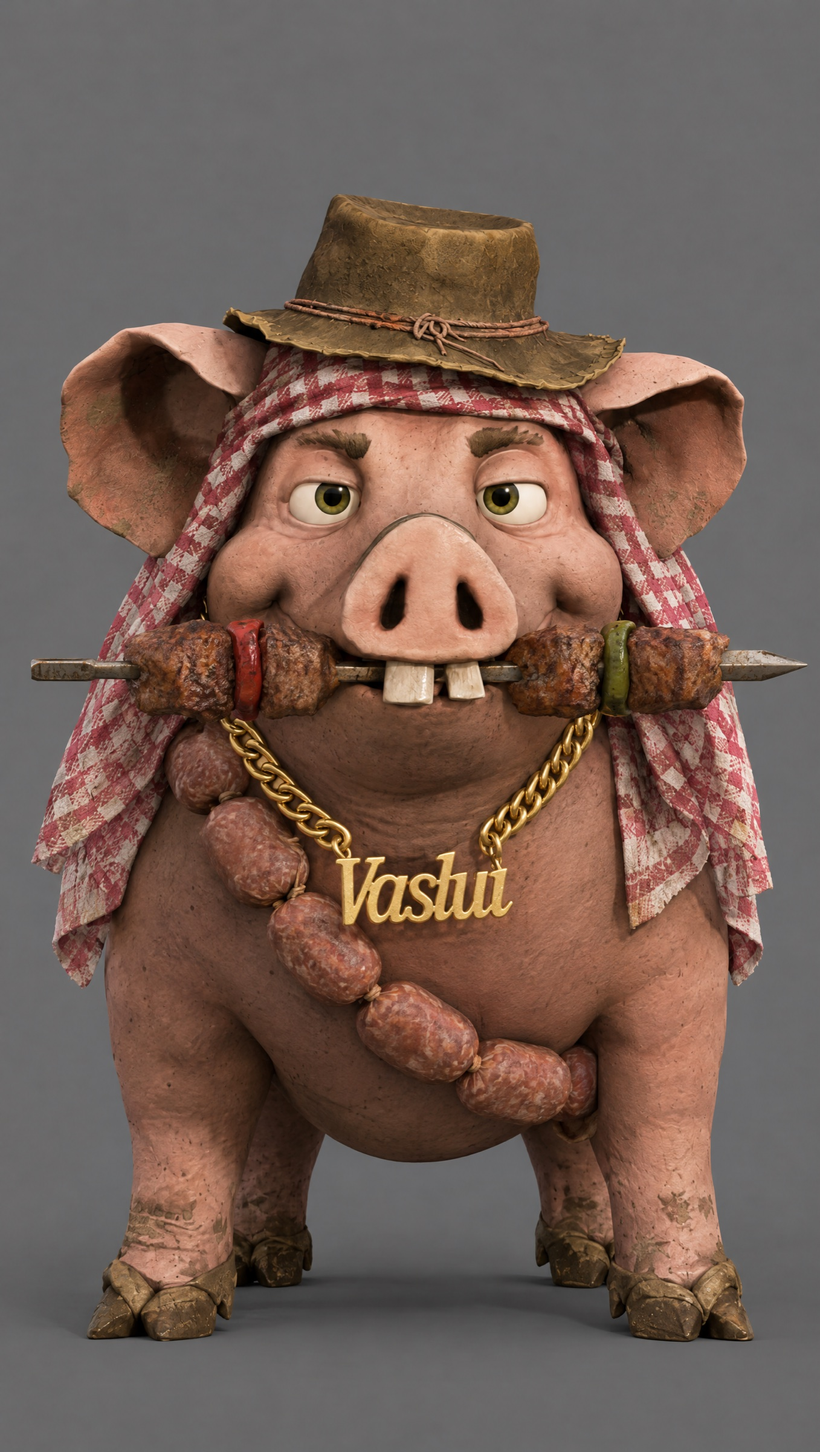
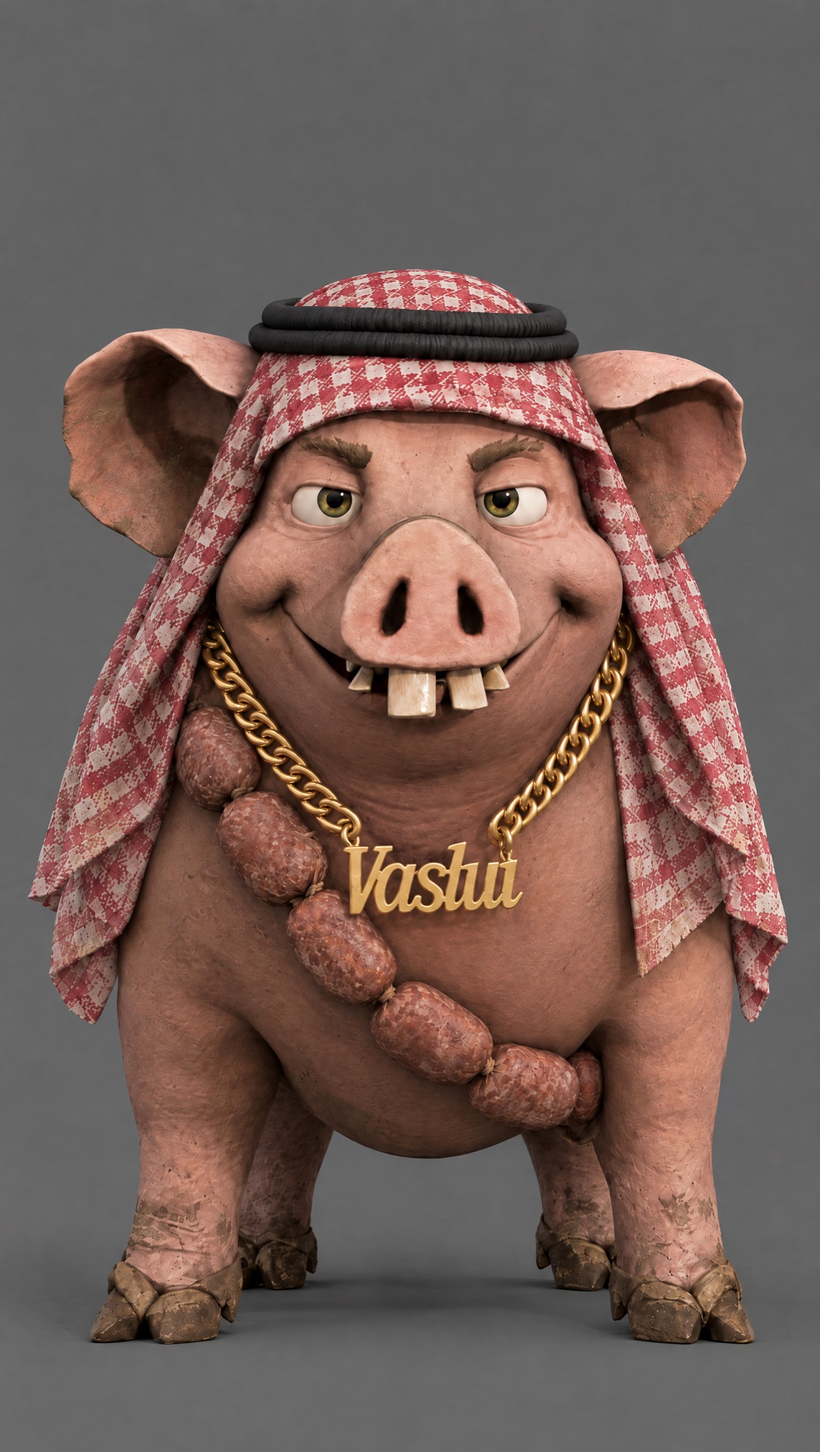
Storyboard update 4a5a51a4b5bd

diff --git a/index.html b/index.html
@@ -1095,7 +1095,7 @@ He&#x27;s my legal counsel.
 Very smart pig.
 You gotta love Valeriu.
 You gotta love the Vasluians.</pre></div></section></div>
-<div id="panel-ep7" role="tabpanel" aria-labelledby="tab-ep7" hidden><section><div class="shead"><h2>Episode 7 — The Hijack</h2><span class="count">Working title · first draft · 18 Oct 2026</span></div><div class="rule"></div><p class="sintro">What if the Vasluians did 9/11? Five hijackers walk up to a plane and each one is introduced Kill Bill style. They take over the plane and fly it drunk. The first passenger to open a bottle turns the hijacking into a party, and the plane blows up. Radu, who missed the flight, ends up alone in the desert with a goat. Brief from Nir, 7–18 October 2026. Vertical, about 1:40, cut to Beastie Boys’ “Sabotage”.</p><nav class="epnav"><a href="#ep7cast">The hijackers</a><a href="#ep7music">Music &amp; cut</a><a href="#ep7beats">Shot list</a><a href="#ep7open">Open questions</a></nav></section><section id="ep7cast"><div class="shead"><h2>The hijackers</h2><span class="count">6 approved · 18 Oct 2026</span></div><div class="rule"></div><p class="sintro">The existing cast in hijacker costume. At each introduction the character freezes for a second while the name comes up in Kill Bill lettering, then carries on. Each one uses their weapon for a second on the way to the plane. “The character introductions are the funny part of the clip.” (Nir)</p><div class="grid"><article class="card"><a class="frame full" href="img/full/episodes/ep-07-the-hijack/characters/abu-mona/abu-mona-approved.jpg" target="_blank" rel="noopener"><img loading="lazy" src="img/thumb/episodes/ep-07-the-hijack/characters/abu-mona/abu-mona-approved.jpg" alt="Abu Mona — approved" data-full="img/full/episodes/ep-07-the-hijack/characters/abu-mona/abu-mona-approved.jpg" decoding="async"></a><div class="plate"><div class="namerow"><h3>Vasile as Abu Mona</h3><span class="flag">APPROVED</span></div><p class="tell">A keffiyeh and Mona grenades. He is introduced first: on his name freeze he opens his coat or lifts his shirt to show the Mona grenades strapped to his body, maybe a funny Mona suicide belt. <b>Built:</b> Keffiyeh in place of his beanie, his jacket held open on a duct-taped Mona suicide belt, and a detonator with a big red button in his raised hand.</p></div></article><article class="card"><a class="frame full" href="img/full/episodes/ep-07-the-hijack/characters/umm-roaba/umm-roaba-approved.jpg" target="_blank" rel="noopener"><img loading="lazy" src="img/thumb/episodes/ep-07-the-hijack/characters/umm-roaba/umm-roaba-approved.jpg" alt="Umm Roaba — approved" data-full="img/full/episodes/ep-07-the-hijack/characters/umm-roaba/umm-roaba-approved.jpg" decoding="async"></a><div class="plate"><div class="namerow"><h3>Vasilica as Umm Roaba</h3><span class="flag">APPROVED</span></div><p class="tell">Roabă means wheelbarrow. The old hijacker has a wheelbarrow and a bazooka that fires slippers. <b>Built:</b> Her foot up on a rusty wheelbarrow heaped with slippers, a bazooka on her shoulder firing a flip-flop, and a satchel of spare slippers.</p></div></article><article class="card"><a class="frame full" href="img/full/episodes/ep-07-the-hijack/characters/abu-topor/abu-topor-approved.jpg" target="_blank" rel="noopener"><img loading="lazy" src="img/thumb/episodes/ep-07-the-hijack/characters/abu-topor/abu-topor-approved.jpg" alt="Abu Topor — approved" data-full="img/full/episodes/ep-07-the-hijack/characters/abu-topor/abu-topor-approved.jpg" decoding="async"></a><div class="plate"><div class="namerow"><h3>Viorel as Abu Topor</h3><span class="flag">APPROVED</span></div><p class="tell">Topor means axe. His red axe, with a string of onions round his neck. <b>Built:</b> The red axe slung over his shoulder, strings of onions round his neck and across his chest, a keffiyeh on his shoulders. Completely relaxed.</p></div></article><article class="card"><a class="frame full" href="img/full/episodes/ep-07-the-hijack/characters/abu-halal/abu-halal-approved.jpg" target="_blank" rel="noopener"><img loading="lazy" src="img/thumb/episodes/ep-07-the-hijack/characters/abu-halal/abu-halal-approved.jpg" alt="Abu Halal — approved" data-full="img/full/episodes/ep-07-the-hijack/characters/abu-halal/abu-halal-approved.jpg" decoding="async"></a><div class="plate"><div class="namerow"><h3>Valeriu as Abu Halal</h3><span class="flag">APPROVED</span></div><p class="tell">Valeriu the pig as a hijacker, gold chain on. Nir didn&#x27;t name a weapon. <b>Built:</b> Keffiyeh under his bush hat, a bandolier of pork sausages, and a kebab skewer held in his teeth like a sword. The gold chain stays on.</p></div></article><article class="card"><a class="frame full" href="img/full/episodes/ep-07-the-hijack/characters/ahmed-goat/ahmed-goat-approved.jpg" target="_blank" rel="noopener"><img loading="lazy" src="img/thumb/episodes/ep-07-the-hijack/characters/ahmed-goat/ahmed-goat-approved.jpg" alt="Ahmed the Goatfucker — approved" data-full="img/full/episodes/ep-07-the-hijack/characters/ahmed-goat/ahmed-goat-approved.jpg" decoding="async"></a><div class="plate"><div class="namerow"><h3>Radu the Rapist as Ahmed the Goatfucker</h3><span class="flag">APPROVED</span></div><p class="tell">Pants down to his ankles, shirt off, stained underwear, a funny walk. He holds a goat on a rope. Too slow for the plane, so it takes off without him. <b>Built:</b> Shirt off, pants round his ankles, stained boxers, a keffiyeh knotted at his neck, and a terrified goat on a rope.</p></div></article><article class="card"><a class="frame full" href="img/full/episodes/ep-07-the-hijack/characters/osama-bin-briben/osama-bin-briben-approved.jpg" target="_blank" rel="noopener"><img loading="lazy" src="img/thumb/episodes/ep-07-the-hijack/characters/osama-bin-briben/osama-bin-briben-approved.jpg" alt="Osama Bin Briben — approved" data-full="img/full/episodes/ep-07-the-hijack/characters/osama-bin-briben/osama-bin-briben-approved.jpg" decoding="async"></a><div class="plate"><div class="namerow"><h3>Mayor Bribeanu as Osama Bin Briben</h3><span class="flag">APPROVED</span></div><p class="tell">Introduced mid-video. He runs the hijackers from his office, shouting into the phone, with bundles of banknotes on the desk. <b>Built:</b> A long beard, a turban wound round his top hat, the MAYOR BRIBEANU sash, shouting into an old phone with a wad of banknotes in his hand.</p></div></article></div></section><section id="ep7music"><div class="shead"><h2>Music &amp; cut</h2><span class="count">timed to the song</span></div><div class="rule"></div><div class="beats"><article class="beat"><span class="count">Song</span><h3>Beastie Boys — “Sabotage”</h3><p>Plays over the whole video, as parody. <a href="https://m.youtube.com/watch?v=z5rRZdiu1UE" target="_blank" rel="noopener">Track</a>. All the times below are positions in the song.</p></article><article class="beat"><span class="count">Nir’s cut · 16 Oct</span><h3>0:00–1:04, then 2:16–2:52</h3><p>The song runs 0:00–1:04, cuts, and picks up again at 2:16–2:52. Then the Radu-and-goat ending. That comes to about 1:30–1:40 in all.</p></article></div></section><section id="ep7beats"><h2>The shot list</h2><p class="sintro">First draft. Times on the cards are the cut’s running time. In part two, song 2:16 falls at 1:04. Cards marked <b>PROPOSAL</b> are our ideas for the part Nir left open.</p><div class="parthead"><h3>Part one — song 0:00–1:04</h3></div><div class="beats"><article class="beat"><span class="count">Shot 1 · 0:00–0:03</span><h3>The runway</h3><p>Wide on a lonely plane on a cracked runway. Five hijackers walk towards the stairs in a line, slow and tough, Reservoir Dogs style. Sabotage kicks in.</p></article><article class="beat"><span class="count">Shot 2 · 0:03–0:06</span><h3>Abu Mona</h3><p>Fast cut to Vasile in a keffiyeh. He flings his coat open: a belt of Mona bottles strapped round him, grenades in his hands. <b>Freeze</b>, name in Kill Bill lettering: <b>VASILE as ABU MONA</b>. He carries on walking.</p></article><article class="beat"><span class="count">Shot 3 · 0:06–0:09</span><h3>Umm Roaba</h3><p>Vasilica pushes her wheelbarrow, swings up a bazooka and fires a slipper. It hits a ground-crew man in the head. <b>Freeze</b>: <b>VASILICA as UMM ROABA</b>.</p></article><article class="beat"><span class="count">Shot 4 · 0:09–0:12</span><h3>Abu Topor</h3><p>Viorel, onions strung round his neck, splits a suitcase on the luggage cart with one blow of his axe. <b>Freeze</b>: <b>VIOREL as ABU TOPOR</b>.</p></article><article class="beat"><span class="count">Shot 5 · 0:12–0:14 · Weapon still open</span><h3>Abu Halal</h3><p>Valeriu the pig, gold chain shining, does his one tough move. <b>Freeze</b>: <b>VALERIU as ABU HALAL</b>.</p></article><article class="beat"><span class="count">Shot 6 · 0:14–0:17</span><h3>Ahmed the Goatfucker</h3><p>Radu, far behind: pants round his ankles, shirt off, stained underwear, a goat on a rope. He shuffles. <b>Freeze</b>: <b>RADU THE RAPIST as AHMED THE GOATFUCKER</b>.</p></article><article class="beat"><span class="count">Shot 7 · 0:17–0:21</span><h3>He misses the plane</h3><p>The door shuts in Radu's face. The plane takes off over him; the jet blast flattens him and the goat.</p></article><article class="beat"><span class="count">Shot 8 · 0:21–0:27</span><h3>The takeover</h3><p>The cabin is stormed with Vaslui weapons: a slipper fired at a steward, the axe through the cockpit door, a Mona grenade held up like a pin is about to be pulled. Passengers scream.</p></article><article class="beat"><span class="count">Shot 9 · 0:27–0:31</span><h3>Osama Bin Briben</h3><p>Cut to the mayor's office: Bribeanu with a long beard, behind a desk piled with banknotes, shouting into the phone at the hijackers. <b>Freeze</b>: <b>MAYOR BRIBEANU as OSAMA BIN BRIBEN</b>.</p></article><article class="beat"><span class="count">Shot 10 · 0:31–0:37 · Which two? Open</span><h3>The cockpit</h3><p>Two hijackers fly the plane. The dashboard is covered in empty bottles and Vaslui junk; they drink at the controls.</p></article><article class="beat"><span class="count">Shot 11 · 0:37–0:42</span><h3>The hostages</h3><p>The other hijackers guard the terrified passengers with the axe and the slipper bazooka.</p></article><article class="beat"><span class="count">Shot 12 · 0:42–0:51</span><h3>The roll</h3><p>Drunk on the controls, the plane barrel-rolls through the sky. Inside, everything turns over: trays, bags and passengers.</p></article><article class="beat"><span class="count">Shot 13 · 0:51–0:55</span><h3>The bottle</h3><p>A passenger opens a bottle of Mona. Pop. Every hijacker's head turns.</p></article><article class="beat"><span class="count">Shot 14 · 0:55–0:59</span><h3>Zombies</h3><p>The hijackers drop their weapons and shuffle towards him like zombies, arms out.</p></article><article class="beat"><span class="count">Shot 15 · 0:59–1:04</span><h3>The party starts</h3><p>Hijackers and passengers drink together. The mission is forgotten.</p></article></div><div class="parthead"><h3>Part two — song 2:16–2:52 (Nir: &quot;think what to put here&quot;)</h3></div><div class="beats"><article class="beat"><span class="count">Shot 16 · 1:04–1:12</span><h3>Barbecue at 30,000 feet</h3><p>Song resumes at 2:16. A barbecue on the drinks trolley: meat on the grill and smoke filling the cabin, as in the end of the alien episode. The smoke alarm goes off and somebody smashes it.</p></article><article class="beat"><span class="count">Shot 17 · 1:12–1:18</span><h3>The lap dance</h3><p>Vasilica gives a petrified passenger a lap dance.</p></article><article class="beat"><span class="count">Shot 18 · 1:18–1:26 · PROPOSAL</span><h3>Nobody is flying</h3><p>Dancing in the aisle, everyone drunk. Cut to the cockpit: empty, apart from Valeriu, who is "flying" the plane with a bottle in his trotter.</p></article><article class="beat"><span class="count">Shot 19 · 1:26–1:32 · PROPOSAL</span><h3>The mayor calls</h3><p>Bribeanu shouts into the phone. On the plane it rings in a pile of bottles; someone answers, burps into it and hangs up.</p></article><article class="beat"><span class="count">Shot 20 · 1:32–1:40 · PROPOSAL</span><h3>Boom</h3><p>Vasile, looking for something to drink, pulls the cap off one of the Mona grenades on his belt. Silence. A wide shot of the plane in the sky, then a huge explosion as the song ends.</p></article></div><div class="parthead"><h3>The ending — after the song</h3></div><div class="beats"><article class="beat"><span class="count">Shot 21 · after the song</span><h3>Just you and me</h3><p>A desert, with smoke on the horizon. Radu walks beside the goat and drools: <i>"Looks like it's just you and me now."</i> The goat looks scared and runs. Radu: <i>"Playing hard to get… I like that."</i> He chases it with his pants-down walk.</p></article></div></section><section id="ep7open"><div class="shead"><h2>Open questions</h2></div><div class="rule"></div><div class="beats"><article class="beat"><h3>Part two</h3><p>Song 2:16–2:52 is still open. Shots 18–20 are our proposal: nobody flying the plane, the mayor calling, and the Mona grenade that blows the plane up.</p></article><article class="beat"><h3>The pilots</h3><p>Which two hijackers fly the plane?</p></article><article class="beat"><h3>Abu Halal</h3><p>Valeriu got a sausage bandolier and a kebab skewer. Nir to confirm.</p></article><article class="beat"><h3>More introductions</h3><p>Nir: “we’ll think of a few more” characters to introduce between the scenes.</p></article></div></section></div>
+<div id="panel-ep7" role="tabpanel" aria-labelledby="tab-ep7" hidden><section><div class="shead"><h2>Episode 7 — The Hijack</h2><span class="count">Working title · first draft · 18 Oct 2026</span></div><div class="rule"></div><p class="sintro">What if the Vasluians did 9/11? Five hijackers walk up to a plane and each one is introduced Kill Bill style. They take over the plane and fly it drunk. The first passenger to open a bottle turns the hijacking into a party, and the plane blows up. Radu, who missed the flight, ends up alone in the desert with a goat. Brief from Nir, 7–18 October 2026. Vertical, about 1:40, cut to Beastie Boys’ “Sabotage”.</p><nav class="epnav"><a href="#ep7cast">The hijackers</a><a href="#ep7music">Music &amp; cut</a><a href="#ep7beats">Shot list</a><a href="#ep7open">Open questions</a></nav></section><section id="ep7cast"><div class="shead"><h2>The hijackers</h2><span class="count">6 approved · 18 Oct 2026</span></div><div class="rule"></div><p class="sintro">The existing cast in hijacker costume. At each introduction the character freezes for a second while the name comes up in Kill Bill lettering, then carries on. Each one uses their weapon for a second on the way to the plane. “The character introductions are the funny part of the clip.” (Nir)</p><div class="grid"><article class="card"><a class="frame full" href="img/full/episodes/ep-07-the-hijack/characters/abu-mona/abu-mona-approved.jpg" target="_blank" rel="noopener"><img loading="lazy" src="img/thumb/episodes/ep-07-the-hijack/characters/abu-mona/abu-mona-approved.jpg" alt="Abu Mona — approved" data-full="img/full/episodes/ep-07-the-hijack/characters/abu-mona/abu-mona-approved.jpg" decoding="async"></a><div class="plate"><div class="namerow"><h3>Vasile as Abu Mona</h3><span class="flag">APPROVED</span></div><p class="tell">A keffiyeh and Mona grenades. He is introduced first: on his name freeze he opens his coat or lifts his shirt to show the Mona grenades strapped to his body, maybe a funny Mona suicide belt. <b>Built:</b> Keffiyeh in place of his beanie, his jacket held open on a duct-taped Mona suicide belt, and a detonator with a big red button in his raised hand.</p></div></article><article class="card"><a class="frame full" href="img/full/episodes/ep-07-the-hijack/characters/umm-roaba/umm-roaba-approved.jpg" target="_blank" rel="noopener"><img loading="lazy" src="img/thumb/episodes/ep-07-the-hijack/characters/umm-roaba/umm-roaba-approved.jpg" alt="Umm Roaba — approved" data-full="img/full/episodes/ep-07-the-hijack/characters/umm-roaba/umm-roaba-approved.jpg" decoding="async"></a><div class="plate"><div class="namerow"><h3>Vasilica as Umm Roaba</h3><span class="flag">APPROVED</span></div><p class="tell">Roabă means wheelbarrow. The old hijacker has a wheelbarrow and a bazooka that fires slippers. <b>War mode:</b> her foot up on a rusty wheelbarrow heaped with slippers, a bazooka on her shoulder firing a flip-flop, and a satchel of spare slippers.</p></div></article><article class="card"><a class="frame full" href="img/full/episodes/ep-07-the-hijack/characters/umm-roaba/umm-roaba-normal-approved.jpg" target="_blank" rel="noopener"><img loading="lazy" src="img/thumb/episodes/ep-07-the-hijack/characters/umm-roaba/umm-roaba-normal-approved.jpg" alt="Umm Roaba, normal mode — approved" data-full="img/full/episodes/ep-07-the-hijack/characters/umm-roaba/umm-roaba-normal-approved.jpg" decoding="async"></a><div class="plate"><div class="namerow"><h3>Vasilica as Umm Roaba · normal mode</h3><span class="flag">APPROVED</span></div><p class="tell">The same element at rest: no wheelbarrow, the slipper bazooka slung on her back, hands folded, a satchel of slippers on her hip. A sweet old lady on her way to the plane.</p></div></article><article class="card"><a class="frame full" href="img/full/episodes/ep-07-the-hijack/characters/abu-topor/abu-topor-approved.jpg" target="_blank" rel="noopener"><img loading="lazy" src="img/thumb/episodes/ep-07-the-hijack/characters/abu-topor/abu-topor-approved.jpg" alt="Abu Topor — approved" data-full="img/full/episodes/ep-07-the-hijack/characters/abu-topor/abu-topor-approved.jpg" decoding="async"></a><div class="plate"><div class="namerow"><h3>Viorel as Abu Topor</h3><span class="flag">APPROVED</span></div><p class="tell">Topor means axe. His red axe, with a string of onions round his neck. <b>Built:</b> The red axe slung over his shoulder, strings of onions round his neck and across his chest, a keffiyeh on his shoulders. Completely relaxed.</p></div></article><article class="card"><a class="frame full" href="img/full/episodes/ep-07-the-hijack/characters/abu-halal/abu-halal-approved.jpg" target="_blank" rel="noopener"><img loading="lazy" src="img/thumb/episodes/ep-07-the-hijack/characters/abu-halal/abu-halal-approved.jpg" alt="Abu Halal — approved" data-full="img/full/episodes/ep-07-the-hijack/characters/abu-halal/abu-halal-approved.jpg" decoding="async"></a><div class="plate"><div class="namerow"><h3>Valeriu as Abu Halal</h3><span class="flag">APPROVED</span></div><p class="tell">Valeriu the pig as a hijacker, gold chain on. Nir didn&#x27;t name a weapon. <b>Built:</b> A keffiyeh and agal on his head in place of the bush hat, and a bandolier of pork sausages. Gold chain and buck teeth as always.</p></div></article><article class="card"><a class="frame full" href="img/full/episodes/ep-07-the-hijack/characters/ahmed-goat/ahmed-goat-approved.jpg" target="_blank" rel="noopener"><img loading="lazy" src="img/thumb/episodes/ep-07-the-hijack/characters/ahmed-goat/ahmed-goat-approved.jpg" alt="Ahmed the Goatfucker — approved" data-full="img/full/episodes/ep-07-the-hijack/characters/ahmed-goat/ahmed-goat-approved.jpg" decoding="async"></a><div class="plate"><div class="namerow"><h3>Radu the Rapist as Ahmed the Goatfucker</h3><span class="flag">APPROVED</span></div><p class="tell">Pants down to his ankles, shirt off, stained underwear, a funny walk. He holds a goat on a rope. Too slow for the plane, so it takes off without him. <b>Built:</b> Shirt off, pants round his ankles, stained boxers, a keffiyeh knotted at his neck, and a terrified goat on a rope.</p></div></article><article class="card"><a class="frame full" href="img/full/episodes/ep-07-the-hijack/characters/osama-bin-briben/osama-bin-briben-approved.jpg" target="_blank" rel="noopener"><img loading="lazy" src="img/thumb/episodes/ep-07-the-hijack/characters/osama-bin-briben/osama-bin-briben-approved.jpg" alt="Osama Bin Briben — approved" data-full="img/full/episodes/ep-07-the-hijack/characters/osama-bin-briben/osama-bin-briben-approved.jpg" decoding="async"></a><div class="plate"><div class="namerow"><h3>Mayor Bribeanu as Osama Bin Briben</h3><span class="flag">APPROVED</span></div><p class="tell">Introduced mid-video. He runs the hijackers from his office, shouting into the phone, with bundles of banknotes on the desk. <b>Built:</b> A long beard, a turban wound round his top hat, the MAYOR BRIBEANU sash, shouting into an old phone with a wad of banknotes in his hand.</p></div></article></div></section><section id="ep7music"><div class="shead"><h2>Music &amp; cut</h2><span class="count">timed to the song</span></div><div class="rule"></div><div class="beats"><article class="beat"><span class="count">Song</span><h3>Beastie Boys — “Sabotage”</h3><p>Plays over the whole video, as parody. <a href="https://m.youtube.com/watch?v=z5rRZdiu1UE" target="_blank" rel="noopener">Track</a>. All the times below are positions in the song.</p></article><article class="beat"><span class="count">Nir’s cut · 16 Oct</span><h3>0:00–1:04, then 2:16–2:52</h3><p>The song runs 0:00–1:04, cuts, and picks up again at 2:16–2:52. Then the Radu-and-goat ending. That comes to about 1:30–1:40 in all.</p></article></div></section><section id="ep7beats"><h2>The shot list</h2><p class="sintro">First draft. Times on the cards are the cut’s running time. In part two, song 2:16 falls at 1:04. Cards marked <b>PROPOSAL</b> are our ideas for the part Nir left open.</p><div class="parthead"><h3>Part one — song 0:00–1:04</h3></div><div class="beats"><article class="beat"><span class="count">Shot 1 · 0:00–0:03</span><h3>The runway</h3><p>Wide on a lonely plane on a cracked runway. Five hijackers walk towards the stairs in a line, slow and tough, Reservoir Dogs style. Sabotage kicks in.</p></article><article class="beat"><span class="count">Shot 2 · 0:03–0:06</span><h3>Abu Mona</h3><p>Fast cut to Vasile in a keffiyeh. He flings his coat open: a belt of Mona bottles strapped round him, grenades in his hands. <b>Freeze</b>, name in Kill Bill lettering: <b>VASILE as ABU MONA</b>. He carries on walking.</p></article><article class="beat"><span class="count">Shot 3 · 0:06–0:09</span><h3>Umm Roaba</h3><p>Vasilica pushes her wheelbarrow, swings up a bazooka and fires a slipper. It hits a ground-crew man in the head. <b>Freeze</b>: <b>VASILICA as UMM ROABA</b>.</p></article><article class="beat"><span class="count">Shot 4 · 0:09–0:12</span><h3>Abu Topor</h3><p>Viorel, onions strung round his neck, splits a suitcase on the luggage cart with one blow of his axe. <b>Freeze</b>: <b>VIOREL as ABU TOPOR</b>.</p></article><article class="beat"><span class="count">Shot 5 · 0:12–0:14 · Weapon still open</span><h3>Abu Halal</h3><p>Valeriu the pig, gold chain shining, does his one tough move. <b>Freeze</b>: <b>VALERIU as ABU HALAL</b>.</p></article><article class="beat"><span class="count">Shot 6 · 0:14–0:17</span><h3>Ahmed the Goatfucker</h3><p>Radu, far behind: pants round his ankles, shirt off, stained underwear, a goat on a rope. He shuffles. <b>Freeze</b>: <b>RADU THE RAPIST as AHMED THE GOATFUCKER</b>.</p></article><article class="beat"><span class="count">Shot 7 · 0:17–0:21</span><h3>He misses the plane</h3><p>The door shuts in Radu's face. The plane takes off over him; the jet blast flattens him and the goat.</p></article><article class="beat"><span class="count">Shot 8 · 0:21–0:27</span><h3>The takeover</h3><p>The cabin is stormed with Vaslui weapons: a slipper fired at a steward, the axe through the cockpit door, a Mona grenade held up like a pin is about to be pulled. Passengers scream.</p></article><article class="beat"><span class="count">Shot 9 · 0:27–0:31</span><h3>Osama Bin Briben</h3><p>Cut to the mayor's office: Bribeanu with a long beard, behind a desk piled with banknotes, shouting into the phone at the hijackers. <b>Freeze</b>: <b>MAYOR BRIBEANU as OSAMA BIN BRIBEN</b>.</p></article><article class="beat"><span class="count">Shot 10 · 0:31–0:37 · Which two? Open</span><h3>The cockpit</h3><p>Two hijackers fly the plane. The dashboard is covered in empty bottles and Vaslui junk; they drink at the controls.</p></article><article class="beat"><span class="count">Shot 11 · 0:37–0:42</span><h3>The hostages</h3><p>The other hijackers guard the terrified passengers with the axe and the slipper bazooka.</p></article><article class="beat"><span class="count">Shot 12 · 0:42–0:51</span><h3>The roll</h3><p>Drunk on the controls, the plane barrel-rolls through the sky. Inside, everything turns over: trays, bags and passengers.</p></article><article class="beat"><span class="count">Shot 13 · 0:51–0:55</span><h3>The bottle</h3><p>A passenger opens a bottle of Mona. Pop. Every hijacker's head turns.</p></article><article class="beat"><span class="count">Shot 14 · 0:55–0:59</span><h3>Zombies</h3><p>The hijackers drop their weapons and shuffle towards him like zombies, arms out.</p></article><article class="beat"><span class="count">Shot 15 · 0:59–1:04</span><h3>The party starts</h3><p>Hijackers and passengers drink together. The mission is forgotten.</p></article></div><div class="parthead"><h3>Part two — song 2:16–2:52 (Nir: &quot;think what to put here&quot;)</h3></div><div class="beats"><article class="beat"><span class="count">Shot 16 · 1:04–1:12</span><h3>Barbecue at 30,000 feet</h3><p>Song resumes at 2:16. A barbecue on the drinks trolley: meat on the grill and smoke filling the cabin, as in the end of the alien episode. The smoke alarm goes off and somebody smashes it.</p></article><article class="beat"><span class="count">Shot 17 · 1:12–1:18</span><h3>The lap dance</h3><p>Vasilica gives a petrified passenger a lap dance.</p></article><article class="beat"><span class="count">Shot 18 · 1:18–1:26 · PROPOSAL</span><h3>Nobody is flying</h3><p>Dancing in the aisle, everyone drunk. Cut to the cockpit: empty, apart from Valeriu, who is "flying" the plane with a bottle in his trotter.</p></article><article class="beat"><span class="count">Shot 19 · 1:26–1:32 · PROPOSAL</span><h3>The mayor calls</h3><p>Bribeanu shouts into the phone. On the plane it rings in a pile of bottles; someone answers, burps into it and hangs up.</p></article><article class="beat"><span class="count">Shot 20 · 1:32–1:40 · PROPOSAL</span><h3>Boom</h3><p>Vasile, looking for something to drink, pulls the cap off one of the Mona grenades on his belt. Silence. A wide shot of the plane in the sky, then a huge explosion as the song ends.</p></article></div><div class="parthead"><h3>The ending — after the song</h3></div><div class="beats"><article class="beat"><span class="count">Shot 21 · after the song</span><h3>Just you and me</h3><p>A desert, with smoke on the horizon. Radu walks beside the goat and drools: <i>"Looks like it's just you and me now."</i> The goat looks scared and runs. Radu: <i>"Playing hard to get… I like that."</i> He chases it with his pants-down walk.</p></article></div></section><section id="ep7open"><div class="shead"><h2>Open questions</h2></div><div class="rule"></div><div class="beats"><article class="beat"><h3>Part two</h3><p>Song 2:16–2:52 is still open. Shots 18–20 are our proposal: nobody flying the plane, the mayor calling, and the Mona grenade that blows the plane up.</p></article><article class="beat"><h3>The pilots</h3><p>Which two hijackers fly the plane?</p></article><article class="beat"><h3>Abu Halal</h3><p>Valeriu has a keffiyeh on his head and a sausage bandolier. Nir to confirm.</p></article><article class="beat"><h3>More introductions</h3><p>Nir: “we’ll think of a few more” characters to introduce between the scenes.</p></article></div></section></div>
 <div id="panel-cast-footer">
   <footer>
     <p>Images are the current approved close-up for each character, pulled straight from <code>characters/</code>. Two are still provisional: <code>ibrahim</code> shows the pre-wardrobe-reference pass, and <code>amadou</code> shows his concept render — both are due a final close-up. Alina has only a turnaround sheet so far, so her card is cropped from it.</p>
@@ -1299,7 +1299,7 @@ window.addEventListener("load", function () {
 });
 </script>
 <!--local-lightbox:end-->
-<script>window.STORYBOARD_FEEDBACK = {"supabaseUrl": "https://xwgtmynpkplxlltifhes.supabase.co", "supabaseAnonKey": "eyJhbGciOiJIUzI1NiIsInR5cCI6IkpXVCJ9.eyJpc3MiOiJzdXBhYmFzZSIsInJlZiI6Inh3Z3RteW5wa3BseGxsdGlmaGVzIiwicm9sZSI6ImFub24iLCJpYXQiOjE3Njk0ODA2ODEsImV4cCI6MjA4NTA1NjY4MX0.7O6wqADbLrhqrMLGLCUUgohXMOn5a44ievwRxV32kyw", "build": "e71f6872330a"};</script>
+<script>window.STORYBOARD_FEEDBACK = {"supabaseUrl": "https://xwgtmynpkplxlltifhes.supabase.co", "supabaseAnonKey": "eyJhbGciOiJIUzI1NiIsInR5cCI6IkpXVCJ9.eyJpc3MiOiJzdXBhYmFzZSIsInJlZiI6Inh3Z3RteW5wa3BseGxsdGlmaGVzIiwicm9sZSI6ImFub24iLCJpYXQiOjE3Njk0ODA2ODEsImV4cCI6MjA4NTA1NjY4MX0.7O6wqADbLrhqrMLGLCUUgohXMOn5a44ievwRxV32kyw", "build": "4a5a51a4b5bd"};</script>
 <script src="https://cdn.jsdelivr.net/npm/@supabase/supabase-js@2.116.0/dist/umd/supabase.min.js"></script>
 <script>
 /* Storyboard feedback — like / dislike / comment on every image, shared live through Supabase.
